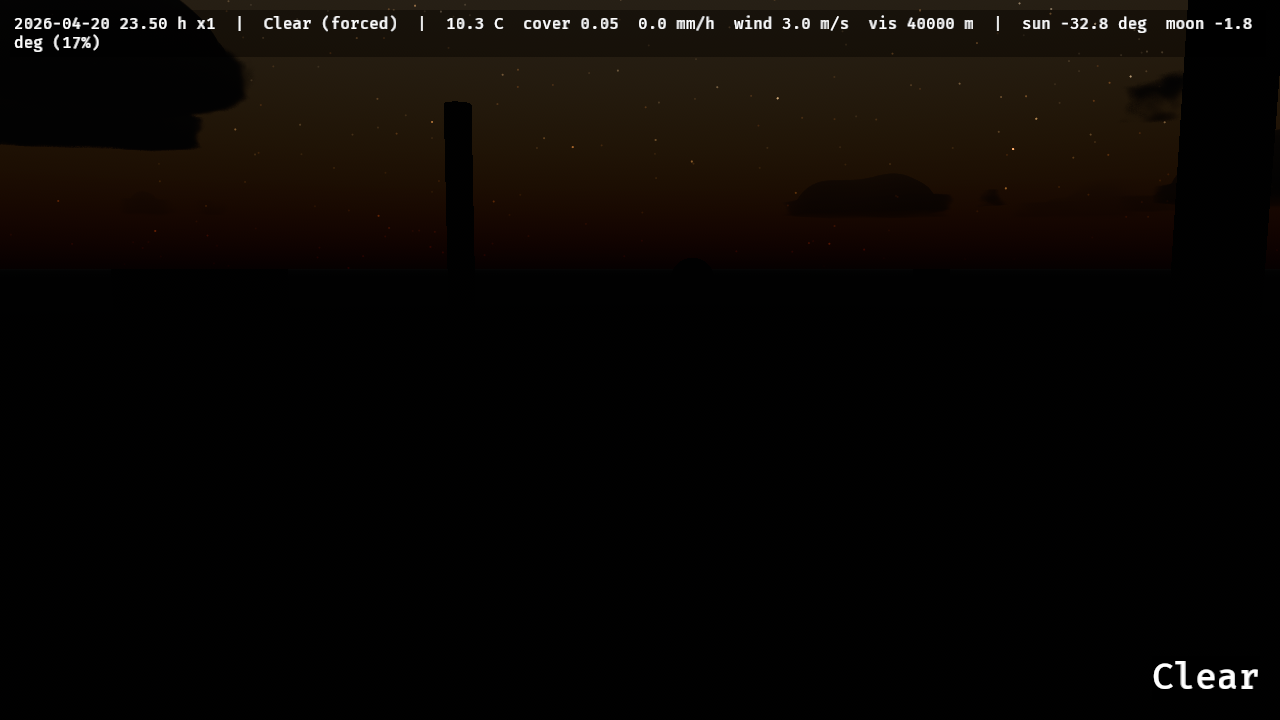
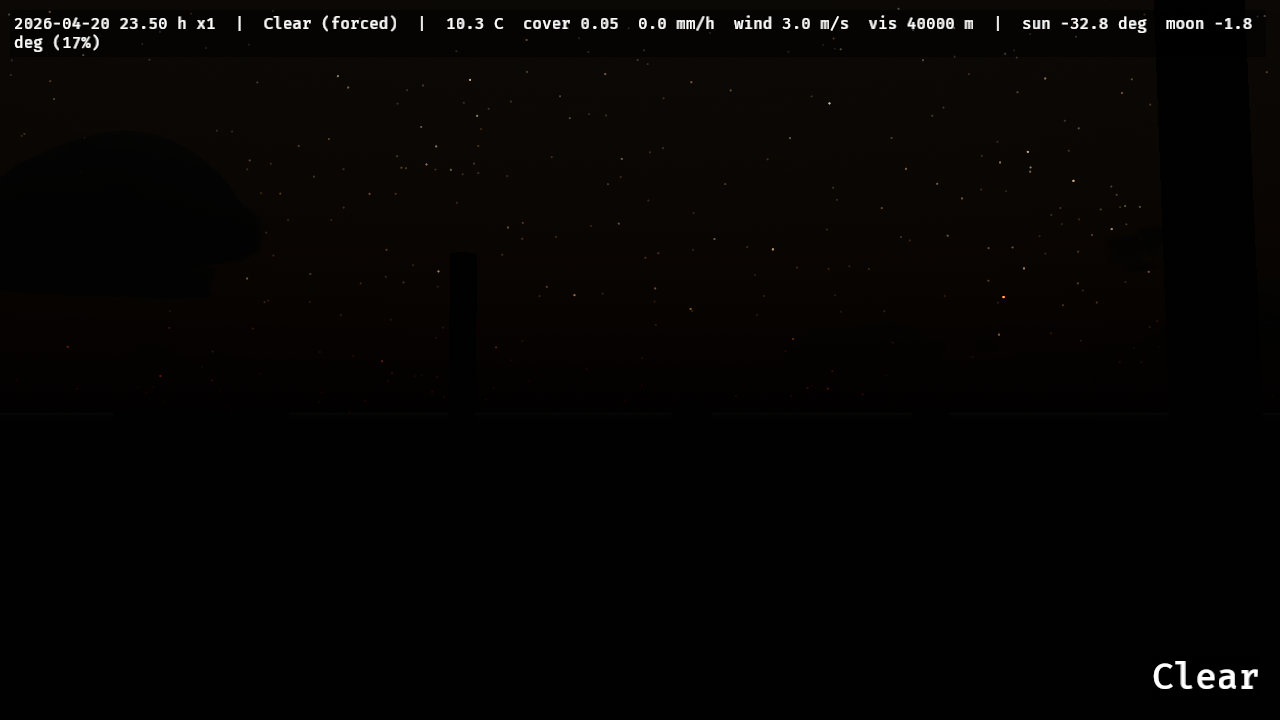
Docs: twilight in the README and changelog, regenerated dusk, night and sunset stills

Changed region(s): [[0.1875, 0.0611, 0.9375, 0.275], [0.125, 0.0, 0.9375, 0.0306], [0.0, 0.1833, 0.1875, 0.275]]

diff --git a/docs/research/celestial.md b/docs/research/celestial.md
@@ -407,6 +407,7 @@ Each is backed by the cited source; none changes a public API shape.
     $$ \text{direct} = \bar T,\qquad \text{diffuse} = 0.25\,(1 - \bar T),\qquad \text{total} = 0.25 + 0.75\,\bar T = 1 - 0.75\,(1-\bar T), $$
 
     which is Kasten & Czeplak's global factor when $\bar T = 1 - N^{3.4}$ (the value before the first readback). `celestial::cloud_light` is the one place the split is computed; `CloudLight::direct`, `diffuse` and `total` are what `update_sky`, `update_ambient`, `scene_illuminance`, `auto_exposure`, the distance fog, the precipitation lighting and the cloud pass read. (a) *Lights:* sun and moon `DirectionalLight::illuminance` $= E\,\bar T$, so their shadows fade out with the beam. Bevy's atmosphere (sky, aerial view and the `AtmosphereEnvironmentMapLight` sky light) is lit by these lights' `color · illuminance` (`bevy_pbr-0.20.0/src/atmosphere/functions.wesl:200-220`, `render/light.rs:1817-1819`), so it follows $\bar T$ too. (b) *Ambient:* Bevy's per-camera `AmbientLight` is a uniform radiance $L$ in cd/m² (`bevy_light-0.20.0/src/ambient_light.rs:12-26`; `bevy_pbr` multiplies `colour · brightness` by the diffuse term, `render/light.rs:1846-1848`, `render/pbr_ambient.wesl:26`), a surface of albedo $\rho$ shows $\rho L$, a horizontal illuminance of $\pi L$. So `brightness` $= \sum_{b\in\{\odot,\mathrm{moon}\}} E_b\,F(h_b')\cdot 0.25\,(1-\bar T)/\pi$ (the metered clear-sky horizontal illuminance of Deviation 15 for each body that is up, i.e. whose light is on) and `color` is the two bodies' tints weighted by those shares (the sun's `dusk_tint`, white above 10° and orange at the horizon, and the moon's light colour), normalised to luminance 1 so the colour does not change the illuminance. The total horizontal illuminance is therefore $E F(h')\,[\bar T + 0.25\,(1-\bar T)]$ = the previous metered value, to the sky light Bevy adds on top of both: exposure is unchanged by the split. Numbers, sun at zenith (E = 130000 · 0.925353 = 120 296 lx clear): $\bar T$ = 1 → sun 130 000 lx, ambient 0; 0.5 → 65 000 lx, 4 787 cd/m² ($\pi L$ = 15 037 lx = 0.125 E); 0 → 0 lx, 9 573 cd/m² ($\pi L$ = 30 074 lx = 0.25 E). (c) *Night:* the ambient takes only bodies whose `DirectionalLight` is on (sun above −2°, moon above −0.5°), so with neither it is 0 and the night is not lifted (Deviation 16); a moonlit overcast night gets the moon's share. Twilight below −2° stays dark under cloud as it does under clear sky. Alternative considered: `AtmosphereEnvironmentMapLight::intensity` scales the sky light on surfaces only (`bevy_pbr-0.20.0/src/atmosphere/environment.rs:261`), a uniform sky colour from the atmosphere with no relation to the cloud, and leaves the sky, aerial view and fog volumes unchanged; it cannot add light that the atmosphere does not have at $\bar T = 0$, so `AmbientLight` was chosen. [INFERENCE] The tint is a stand-in for "the light that reaches the layer": the sun's transmittance at the layer is a GPU lookup (`clouds.md`), the CPU has only the altitude.
+19. **Twilight, the night background and the glow-capped exposure (amends 11, 15 and 18, including 18 (c)'s "twilight below −2° stays dark"; iteration 12).** The sun's light is no longer switched off at −2°: it lights the atmosphere to −18°, scaled below the horizon to follow Hulburt's measured zenith twilight (1953), and once its disc has set its cloud factor is the dome's total, not the beam, so `sky_gain` is 1 then; under cloud the ambient now carries the twilight. A camera that kept Bevy's default clear colour is cleared to the night sky's background radiance at its exposure. The auto exposure is the larger of the illuminance target (unchanged, Validation 25) and a cap from the sky toward the sun (Patry 2021). Sources, measurements and parameters: `docs/research/twilight.md`.
 
 ## Pending index
 

diff --git a/README.md b/README.md
@@ -80,7 +80,9 @@ Everything runs in `Update` in the chained sets `ElementsSystems::{Clock, Weathe
 
 ### The camera
 
-`ElementsCamera` marks the camera the environment follows. Adding it inserts, where absent: `AtmosphereSettings`, `AtmosphereEnvironmentMapLight`, `DepthPrepass`, `VolumetricFog`, `DistanceFog`, `Exposure`, and a zero per-camera `AmbientLight` (sky light comes from the atmosphere's environment map), and it spawns one Earth `Atmosphere` if there is none. It sets `Msaa::Off` (the depth prepass and the precipitation pass read the depth texture single-sampled; insert `Msaa` after spawning the camera to override). With `auto_exposure` (the default) the exposure follows the sun, sky and moon: illuminance-metered like Ghost of Tsushima, mapped with Ward's contrast-based scale factor over Larson et al.'s rod-and-cone thresholds, so a moonlit scene stays dark instead of being exposed up to daylight. `ElementsQuality` (`Low`, `Medium`, `High`, `Ultra`) sets every resolution and step count.
+`ElementsCamera` marks the camera the environment follows. Adding it inserts, where absent: `AtmosphereSettings`, `AtmosphereEnvironmentMapLight`, `DepthPrepass`, `VolumetricFog`, `DistanceFog`, `Exposure`, and a zero per-camera `AmbientLight` (sky light comes from the atmosphere's environment map), and it spawns one Earth `Atmosphere` if there is none. It sets `Msaa::Off` (the depth prepass and the precipitation pass read the depth texture single-sampled; insert `Msaa` after spawning the camera to override). A camera that kept Bevy's default clear colour is cleared every frame to the night sky's own faint glow at its exposure (the space behind the atmosphere); one that set its own `ClearColorConfig` keeps it. With `auto_exposure` (the default) the exposure follows the sun, sky and moon: illuminance-metered like Ghost of Tsushima, mapped with Ward's contrast-based scale factor over Larson et al.'s rod-and-cone thresholds, so a moonlit scene stays dark instead of being exposed up to daylight; around sunset it is capped by the sky toward the sun, so the golden hour and the twilight glow keep their colour instead of turning white. `ElementsQuality` (`Low`, `Medium`, `High`, `Ultra`) sets every resolution and step count.
+
+![Twilight toward the sun, the sun 8° below the horizon: the orange glow under a violet sky, clouds and posts in silhouette](docs/twilight.png) ![The same evening away from the sun, 5° below: the pink Belt of Venus over the blue Earth's shadow](docs/belt_of_venus.png)
 
 ### Clock, sun, moon and stars
 
@@ -381,6 +383,7 @@ Native (Vulkan, Metal, DX12) and wasm WebGPU. WebGL2 is unsupported: the simulat
 - [Bevy 0.20 render APIs](docs/research/bevy-0.20-render.md) — the verified paths and signatures this crate builds on.
 - [What the home-still corpus holds](docs/research/corpus.md) — the reading list per domain.
 - [Celestial](docs/research/celestial.md) — Meeus, Reda & Andreas (SPA), Krisciunas & Schaefer, Jensen et al., Ballesteros, USNO Circular 171, Larson et al. (tone reproduction).
+- [Twilight and the night sky](docs/research/twilight.md) — Hulburt 1953, Haber et al. 2005, Hillaire 2020, Patry 2021: the sun lighting the sky below the horizon, the night glow behind the atmosphere, the glow-capped exposure.
 - [Climate and weather](docs/research/climate-weather.md) — Richardson 1981, ISO 2533, Jennings et al. 2018.
 - [Wind](docs/research/wind.md) — Stam 1999, Harris 2004, Bridson et al. 2007, Kim et al. 2008, WMO.
 - [Lightning](docs/research/lightning.md) — Reed & Wyvill 1994, Kim & Lin 2004, Poelman et al. 2021, Rakov, Tatarchuk 2006.

diff --git a/CHANGELOG.md b/CHANGELOG.md
@@ -4,6 +4,15 @@ All notable changes to bevy_elements. The format follows [Keep a Changelog](http
 
 ## [Unreleased]
 
+### Changed
+
+- **Twilight exists, and the sunset is not blown out.** The sun's light was switched off at −2°, and Bevy's atmosphere is lit only by directional lights, so from −2° to −18° (over an hour of every summer evening) the sky had no light at all. The sun now lights the atmosphere down to −18°, falling below the horizon at the rate Hulburt (1953) measured for the zenith twilight sky (0.427 decades per degree; checked on a linear target to within 0.65–1.0×); it lights no surface once its disc has set (Bevy's own visible-disc factor), its shadow maps are off below −0.5°, and the precipitation draw takes it only while its disc is up. Civil and nautical twilight now render as they should: a blue to blue-purple zenith (the ozone in Bevy's medium), an orange glow on the sun's side, the Belt of Venus on the other, the afterglow shrinking into night. The automatic exposure, metered on illuminance, is now capped by the sky toward the sun (Patry 2021): from a sun of about 25° down through twilight the brightest sky stays at 3.2 × display peak, where it reached 6–20, so the golden hour keeps its colour and the ground reads as silhouettes against it. The afternoon under a clear sky is metered as before; a camera standing in a cloud shadow no longer opens up past the sunlit sky (PartlyCloudy at noon 0.4 stop darker). `docs/research/twilight.md`, `tests/gpu_twilight.rs`.
+- **The night sky is no longer brown.** Bevy's default `ClearColor` (sRGB 43, 44, 47) is written behind the sky before any exposure, so it showed through the atmosphere as a constant warm-brown sky of about 40 DN at night. A camera that kept the default clear colour is now cleared every frame to the night sky's own faint glow (1.6×10⁻⁴ cd/m², the sky that gives the exposure's illuminance floor) at its exposure; a camera with its own `ClearColorConfig` keeps it.
+
+### Added
+
+- **`ELEMENTS_START` in the `day_night` example** starts the running day at that hour (a dusk time-lapse: one game hour is 300 frames).
+
 ### Fixed
 
 - **Each domain plugin works on its own.** `WindPlugin`, `FogPlugin`, `CloudPlugin` and `GroundCoverPlugin` read `Climate`, `WeatherDirector`, `CelestialFrame` or `SurfaceWeathering` that only `ClimatePlugin` or `CelestialPlugin` created, so `ElementsPlugins.build().disable::<…>()` panicked on a missing resource; each now inserts, if absent, every resource its systems read. The wind, precipitation, cover and water shaders import the terrain's `terrain::common` library, which only `TerrainPlugin` registered: the wind kernel without a terrain plugin failed to compile and the field never went live. The library is now registered with the shared GPU core. `tests/gpu_plugins.rs`.
